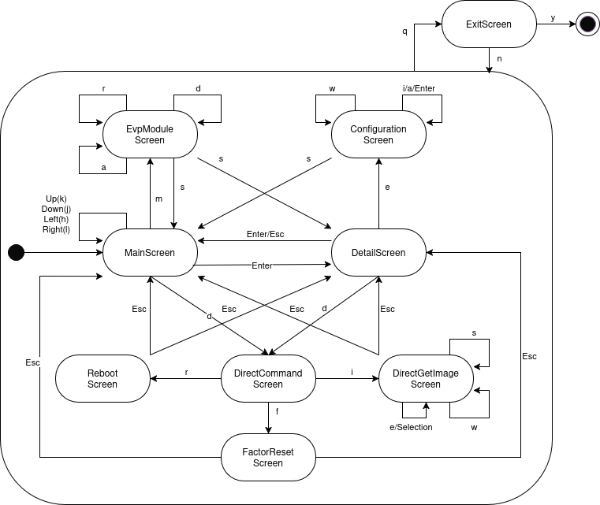
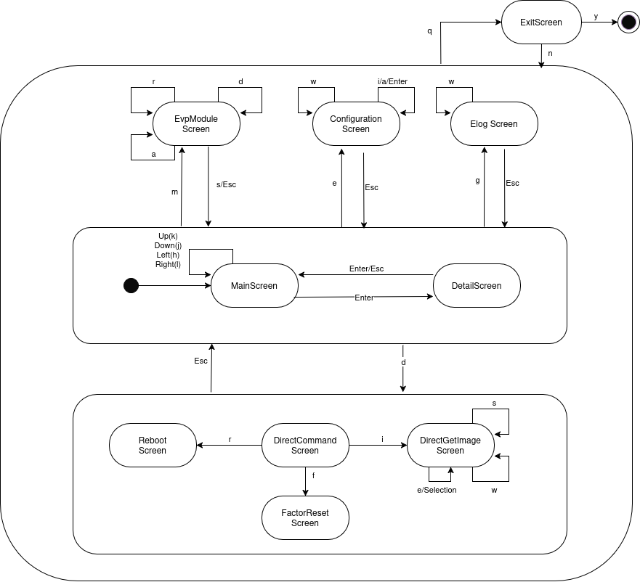
Update README.md

diff --git a/README.md b/README.md
@@ -15,25 +15,70 @@ data in real-time.
 - **Customizable**: Easily configurable MQTT broker address and logging options via command-line arguments.
 - **Error Handling**: Robust error handling using `error_stack` for detailed error reporting.
 
+## How to build
+[Install rust on your system](https://www.rust-lang.org/tools/install) and then run the following command to build the tool:
+
+```bash
+cargo build --release
+```
+
 ## Supposed Usage
 This tool is intended to be used in a development environment as follows:
 
-- The AITRIOS device, the device on which MQTT broker is running and the device on
-  which this tool is running are connected to the same local network.
-  - The MQTT broker is supposed to be running as a daemon service on the device.
-- Only 1 AITRIOS device is connected to the development network at a time.
-- The MQTT broker is configured to allow connections from local network if
-  either the AITRIOS device or this tool is running on a different device.
-- AITRIOS device is configured to work in Non-TLS mode and be able to connect to
-  the local MQTT broker.
+- An AITRIOS device to be monitored is connected to a local network.
+  - Only 1 device can be monitored.
+  - The device is configured to work in Non-TLS mode and be able to connect to a
+    MQTT broker located in the local network.
+- Following software modules running on a host pc or device which is connected
+  to the same local network as the AITRIOS device:
+  - A MQTT broker (e.g., Mosquitto) is running to facilitate communication
+    between the AITRIOS device.
+  - A Azurite local Azure Storage emulator used for test storage.
+  - Device Monitor tool (this tool).
 
-### Command-Line Arguments:
-- `--broker` or `-b`: Specifies the MQTT broker address (default: `localhost:1883`).
-- `--azurite-url` or `-a`: Specifies the Azurite URL (default: `https://127.0.1:10000`).
-- `--log` or `-l`: Specifies the log file path for saving logs (optional).
-- `--verbose` or `-v`: Increase verbosity level for debugging purposes. Can be used multiple times (e.g., `-vv` for maximum verbosity).
+### Install MQTT Broker
+You can install `mosquitto` as the MQTT broker as follows:
 
-### Example Usage:
+```bash
+sudo apt install mosquitto
+```
+
+Configure the `mosquitto` to accept connections from the local network by
+creating a `/etc/mosquitto/conf.d/local_network.conf` file with the following
+content:
+
+```
+listener 1883 0.0.0.0
+allow_anonymous true
+```
+
+### Install Azurite
+You can install  and start `Azurite` as the Azure Storage emulator as follows:
+
+```bash
+docker run -p 10000:10000 \
+           -p 10001:10001 \
+           -p 10002:10002 \
+           mcr.microsoft.com/azure-storage/azurite
+```
+
+### Device Monitor Command parameters
+
+The synopsis of the command is as follows:
+
+```
+Usage: device-monitor [OPTIONS]
+
+Options:
+  -b, --broker <BROKER>            MQTT broker address [default: localhost:1883]
+  -a, --azurite-url <AZURITE_URL>  Azurite url [default: https://127.0.1:10000]
+  -l, --log <LOG>                  Log file
+  -v, --verbose...                 Verbose
+  -h, --help                       Print help
+  -V, --version                    Print version
+```
+
+#### Example Usage:
 ```bash
 # Basic usage
 $ device-monitor \
@@ -49,8 +94,11 @@ $ device-monitor \
        -vv
 ```
 
-*) Suppose MQTT broker is running on the device with IP address of
-`192.168.28.3` and Azurite is running on the device with IP address of `192.168.28.4`
+**Note**
+* Suppose MQTT broker is running on the device with IP address of
+`192.168.28.3` and Azurite is running on the device with IP address of `192.168.28.4`  
+* The port number of Azurite should follow the exported port number of the
+  Azurite container.
 
 ### Screen Transition
 
@@ -104,6 +152,10 @@ Following is the screen transition of the tool with the key-press:
   * i/a/Enter:  Edit the configuration item.
   * w:          Show the configuration item request.
   * s:          Send the configuration item request.
+* ELOG: Elog screen.
+  * w:          Save the ELOG to a file.
+  * Esc:        Move back to previous screen.
+  * q:          Move to exit screen.
 * ExitScreen: Exit screen.
   * y:          Exit the tool.
   * n:          Move back to previous screen.
